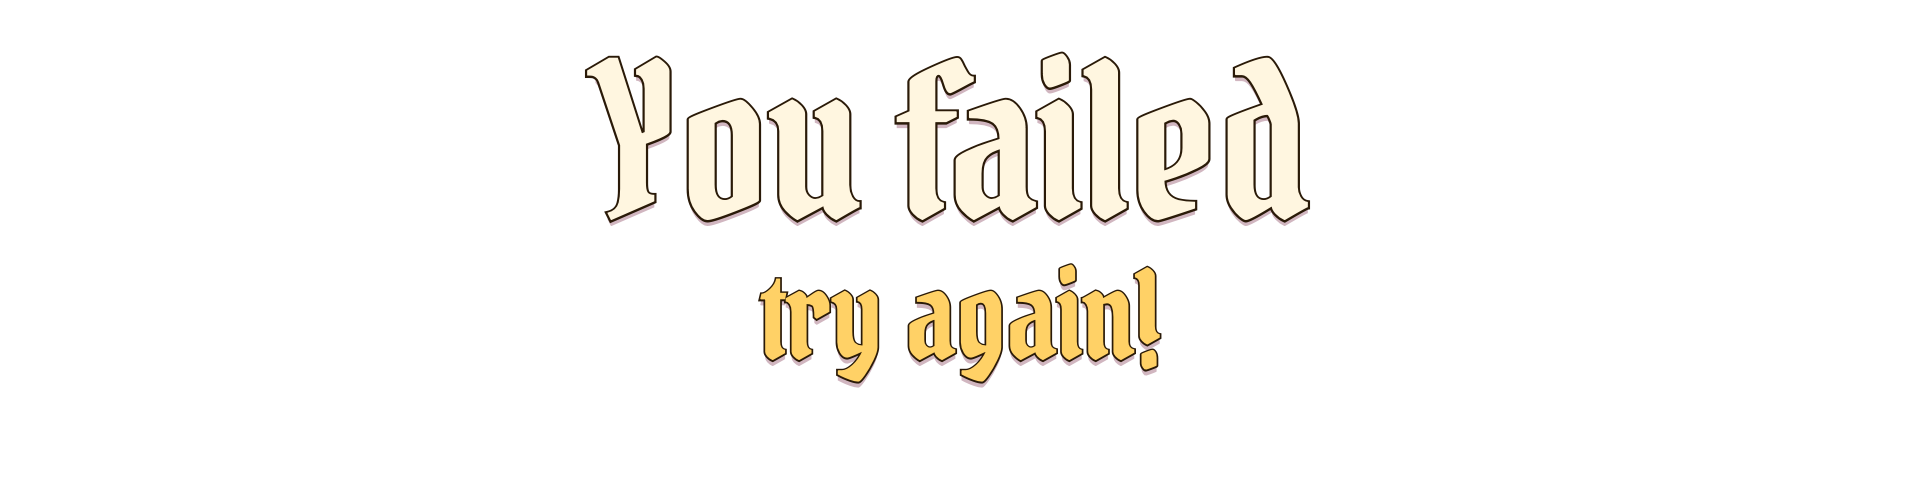
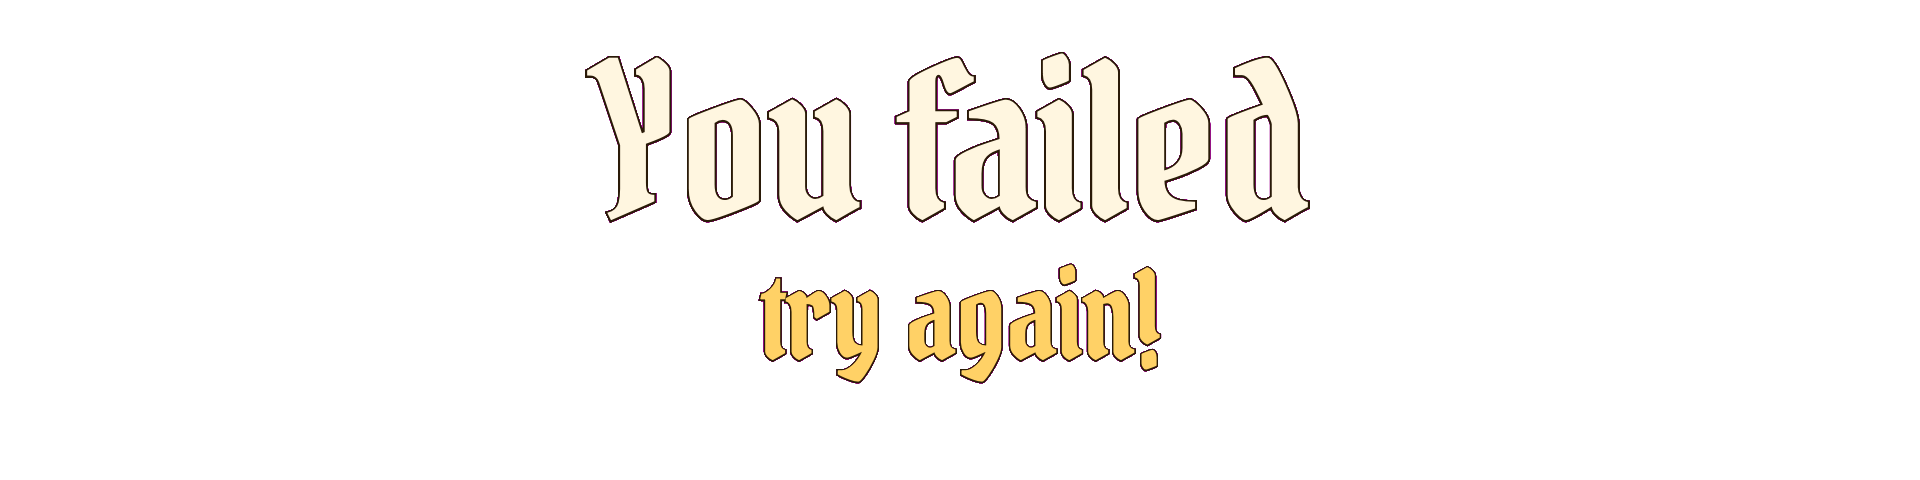
ddr: make fail-screen title transparent

diff --git a/services/ddr/outfox/build-failscreen.py b/services/ddr/outfox/build-failscreen.py
@@ -59,6 +59,7 @@ def main() -> None:
 
     # 3) nautical title
     title = '''<svg xmlns="http://www.w3.org/2000/svg" width="1920" height="1920">
+<rect width="1920" height="1920" fill="#ff00ff"/>
 <g font-family="Pirata One" text-anchor="middle">
 <text x="960" y="946" font-size="210" fill="#7a2e4a" opacity="0.35">You failed</text>
 <text x="960" y="940" font-size="210" fill="#fff6e0" stroke="#2a1a08" stroke-width="5" paint-order="stroke">You failed</text>
@@ -66,8 +67,15 @@ def main() -> None:
 <text x="960" y="1080" font-size="120" fill="#ffd166" stroke="#2a1a08" stroke-width="4" paint-order="stroke">try again!</text>
 </g></svg>'''
     t = render(title, "title")
-    subprocess.run(["sips", "-c", "480", "1920", str(t), "--out", str(GFX / "fail-title.png")],
+    cropped = TMP / "title-crop.png"
+    subprocess.run(["sips", "-c", "480", "1920", str(t), "--out", str(cropped)],
                    check=True, stdout=subprocess.DEVNULL)
+    # key out the magenta matte so only the text remains
+    subprocess.run([
+        "ffmpeg", "-v", "error", "-y", "-i", str(cropped),
+        "-vf", "format=rgba,colorkey=0xff00ff:0.30:0.08",
+        "-frames:v", "1", str(GFX / "fail-title.png"),
+    ], check=True)
 
     print("wrote", GFX / "fail.mp4", GFX / "fail-bg.png", GFX / "fail-title.png")
 
